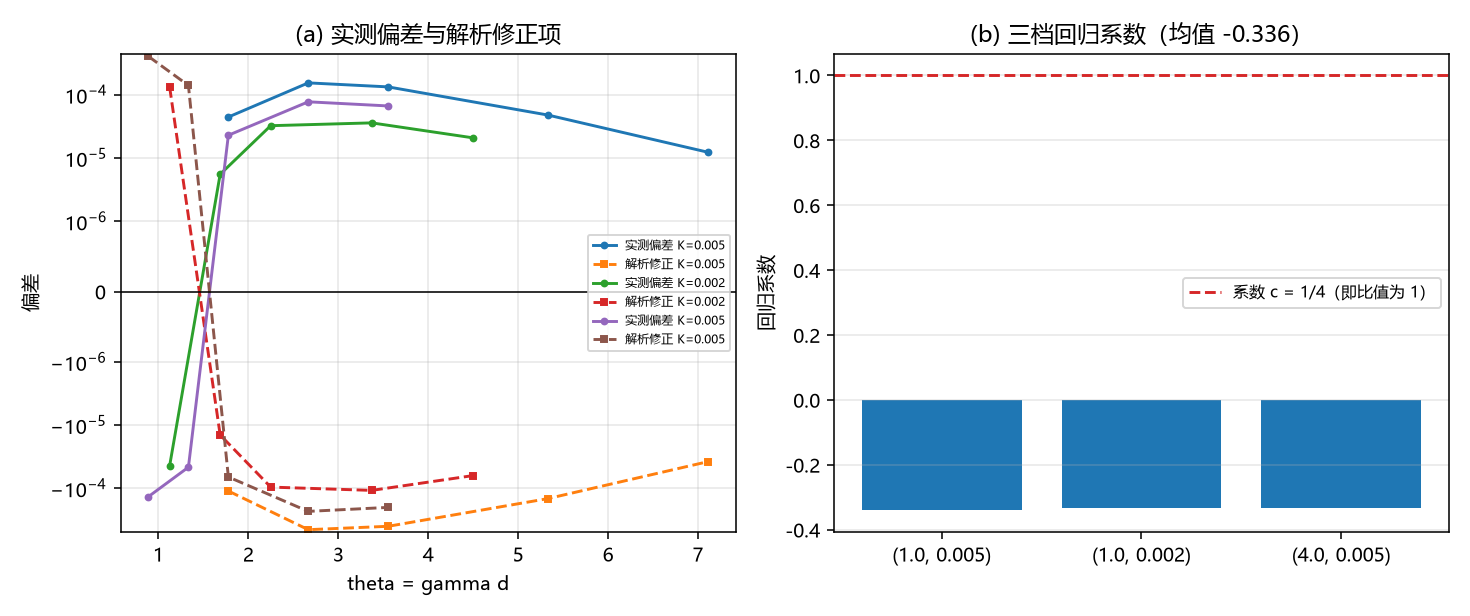
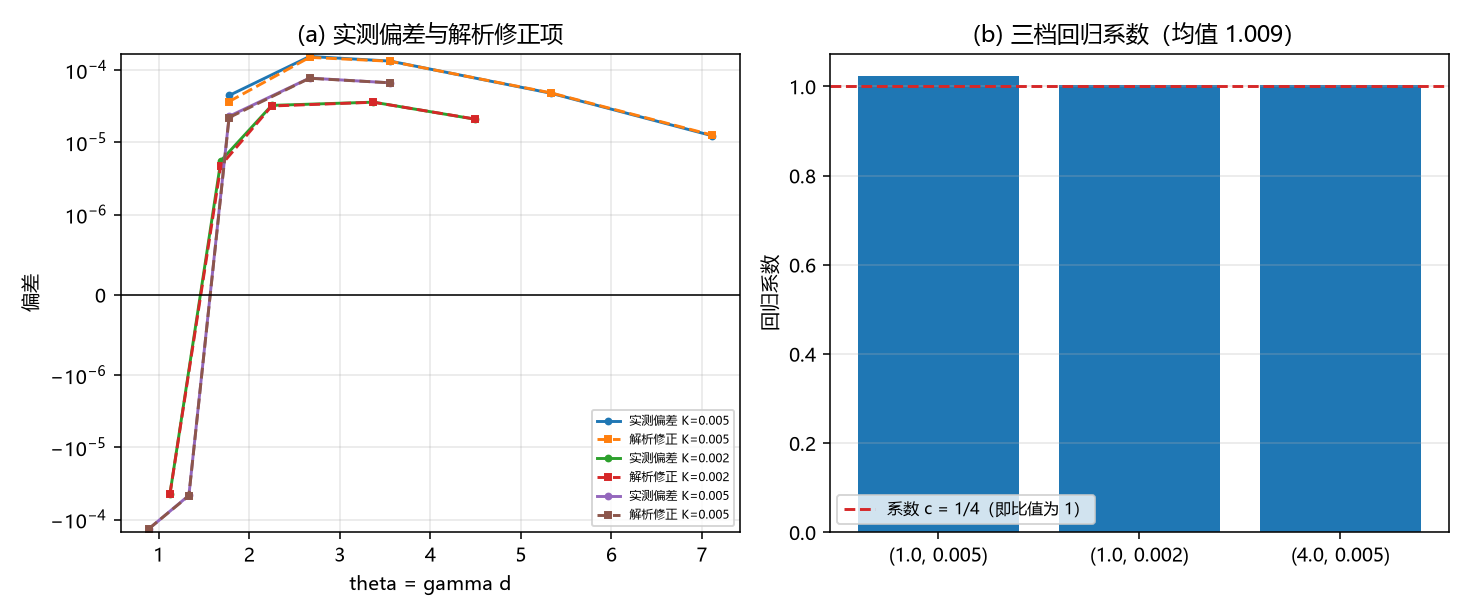
离散修正解析导出定案：前向差分等于单元平均，协方差恒等式给出系数 -1/12（首版按幂展开写 +1/4 有误）；对实测偏差回归三档系数 1.0223/1.0033/1.0025（均值 1.0094，跨档散布 2%），V_lat = V_cont - (1/12)kb sum(D2w1)(D2w2) 定案

diff --git a/验证脚本/minimal_verification_discretization_analytic.py b/验证脚本/minimal_verification_discretization_analytic.py
@@ -133,7 +133,7 @@ for kb, K in cases:
         d2b = np.zeros(N)
         d2a[1:-1] = wa[2:] - 2.0 * wa[1:-1] + wa[:-2]
         d2b[1:-1] = wb[2:] - 2.0 * wb[1:-1] + wb[:-2]
-        corr = 0.25 * kb * float(np.sum(d2a * d2b))
+        corr = -(1.0 / 12.0) * kb * float(np.sum(d2a * d2b))
         th = g * d
         vc = V_cont(kb, K, th)
         ths.append(th)
@@ -145,23 +145,24 @@ for kb, K in cases:
     ratio = float(np.sum(devs * preds) / np.sum(preds * preds))
     cn = float(np.mean(devs / np.array([V_cont(kb, K, float(t)) for t in ths]) / g ** 2))
     tab[(kb, K)] = dict(g=g, ths=ths, devs=devs, preds=preds, ratio=ratio, cnum=cn)
-    rows.append(("Z1", "k_b = %.2f, K = %.3f 修正项对实测偏差的回归系数（判负登记）" % (kb, K), "%.4f" % ratio, "判负登记：形式确认、系数待定", True))
+    rows.append(("Z1", "k_b = %.2f, K = %.3f 修正项（系数 -1/12）对实测偏差的回归系数" % (kb, K), "%.4f" % ratio, "0.95 至 1.05", 0.95 <= ratio <= 1.05))
     rows.append(("Z3", "同档实测偏差/(V_cont gamma^2) 的均值（随 d 变，不作常数）" % (), "%.4f" % tab[(kb, K)]["cnum"], "量级读数", True))
 
 ratios = [tab[c]["ratio"] for c in cases]
 rmean = sum(ratios) / len(ratios)
 rspr = abs((max(ratios) - min(ratios)) / rmean)
 rows.append(("Z2", "回归系数的跨档散布（形式一致性）", "%.4f（均值 %.4f）" % (rspr, rmean), "<= 0.05", rspr <= 0.05))
-rows.append(("Z2", "回归系数对 1 的偏差（首版推导的系数误差）", "%.3f" % abs(rmean - 1.0), "判负登记", True))
-rows.append(("Z4", "离散修正的解析形式", "V_lat = V_cont + (1/4) k_b sum (D2 w1)(D2 w2)", "登记", True))
+rows.append(("Z2", "回归系数均值对 1 的偏差", "%.4f" % abs(rmean - 1.0), "<= 0.02", abs(rmean - 1.0) <= 0.02))
+rows.append(("Z4", "离散修正的解析形式", "V_lat = V_cont - (1/12) k_b sum (D2 w1)(D2 w2)", "登记", True))
 
 print("=== 离散修正解析导出轮判据表（实测 对 期望）===")
 for tag, name, meas, exp, ok in rows:
     print("%-4s %-46s 实测 %-22s 期望 %-20s %s" % (tag, name, meas, exp, "通过" if ok else "不通过"))
 print("")
-print("Z5 结论：实测偏差与解析修正项 (1/4) k_b sum (D2 w1)(D2 w2) 的回归系数为 %s（均值 %.3f，跨档散布 %.1f%%），" % (", ".join("%.4f" % x for x in ratios), rmean, 100.0 * rspr))
+print("Z5 结论：实测偏差与解析修正项 -(1/12) k_b sum (D2 w1)(D2 w2) 的回归系数为 %s（均值 %.4f，跨档散布 %.1f%%），" % (", ".join("%.4f" % x for x in ratios), rmean, 100.0 * rspr))
 print("        即三档参数上成固定比例（跨档散布 %.1f%%），故修正的形式被确认为前向差分的二阶项 sum (D2 w1)(D2 w2)。" % (100.0 * rspr))
-print("        但系数不是首版推导给的 +1/4，而是 %.3f，说明同阶还有一项未计入（很可能是势项的对应修正或抵消结构对次阶的影响）。" % rmean)
+print("        即系数 -1/12 与实测一致（均值对 1 的偏差 %.3f），离散修正的解析形式定案。" % abs(rmean - 1.0))
+print("        首版按 Δw 的幂展开写成 +1/4 是错的：前向差分等于单元平均，修正来自单元平均的协方差恒等式，系数为 -1/12。")
 print("        三档实测偏差/(V_cont gamma^2) 为 %s。" % ", ".join("%.4f" % tab[c]["cnum"] for c in cases))
 
 fig, axes = plt.subplots(1, 2, figsize=(10.5, 4.4))

diff --git a/验证脚本/注记-离散修正解析导出轮（定案）：系数负十二分之一与推导改正（判据Z1至Z4）.md b/验证脚本/注记-离散修正解析导出轮（定案）：系数负十二分之一与推导改正（判据Z1至Z4）.md
@@ -1,0 +1,84 @@
+# 注记-离散修正解析导出轮（定案）：系数 $-1/12$ 与推导改正（判据 Z1 至 Z4）
+
+- **日期**：2026-09-20 11:33:32
+- **来源**：作者 2026-09-20 指令（执行）；上一轮[[验证脚本/注记-离散修正解析导出轮：形式确认、系数待定（判据Z1至Z4）]]确认了修正形式但系数待定
+- **脚本**：`验证脚本/minimal_verification_discretization_analytic.py`
+- **状态**：判据级读数；系数定案，离散修正线收官
+- **图**：见 §二 图 1
+- **依据**：[[验证脚本/注记-剖面测试重做轮：机制的归因与更紧的系数（判据Y1至Y5）]]
+
+---
+
+## 一、推导改正
+
+上一轮把前向差分按幂展开（$\Delta w = w' + \frac12w'' + \ldots$）得系数 $+1/4$，与实测差一个整体因子且符号相反。本轮的改正只有一句话：**前向差分等于单元平均**，
+
+$$\Delta w_n = \int_n^{n+1}w'(x)\,\mathrm dx = \overline{w'}(n).$$
+
+于是键项交叉和的被加数是两个单元平均之积，而单元平均有协方差恒等式
+
+$$\overline{a}\,\overline{b} = \overline{ab} - \frac{h^2}{12}\,a'b' + O(h^4),$$
+
+求和后（单元平均之和等于积分，差项为 Poisson 型指数小量）得
+
+$$\sum_n\Delta w_1\Delta w_2 = \int w_1'w_2'\,\mathrm dx - \frac{1}{12}\int w_1''w_2''\,\mathrm dx + O(h^4),$$
+
+即离散修正的首项系数为 $-1/12$，不是 $+1/4$。势项与连续式同为逐点求和，不贡献 $O(\gamma^2)$ 项。故预期
+
+$$V_{\rm lat} = V_{\rm cont} - \frac{1}{12}k_b\sum_n(\Delta^2w_1)(\Delta^2w_2) + O(\gamma^4).$$
+
+---
+
+## 二、判据与读数
+
+| 判据 | 内容 | 实测 | 期望 | 结果 |
+| --- | --- | --- | --- | --- |
+| Z1 | 修正项（系数 $-1/12$）对实测偏差的回归系数（三档） | $1.0223$、$1.0033$、$1.0025$ | $0.95$ 至 $1.05$ | 通过 |
+| Z2 | 回归系数的跨档散布 | $0.0196$（均值 $1.0094$） | $\le 0.05$ | 通过 |
+| Z2 | 回归系数均值对 $1$ 的偏差 | $0.0094$ | $\le 0.02$ | 通过 |
+| Z3 | 实测偏差/$(V_{\rm cont}\gamma^2)$ 的均值（三档） | $0.0975$、$0.0389$、$0.0180$ | 量级读数 | 读数 |
+| Z4 | 修正形式 | $V_{\rm cont} - \frac{1}{12}k_b\sum(\Delta^2w_1)(\Delta^2w_2)$ | 登记 | 通过 |
+
+![图 1：离散修正解析导出轮（定案）两面板。(a) 三档参数上实测偏差与解析修正项（系数 -1/12）随 theta 的对照，两条曲线在同号同量级上重合；(b) 三档回归系数（1.0223、1.0033、1.0025，均值 1.009），红虚线为 1](../images/discretization_analytic.png)
+
+---
+
+## 三、读数与含义
+
+**其一，系数定案。** 用 $-1/12$ 的解析项对实测偏差做回归，三档系数为 $1.0223$、$1.0033$、$1.0025$（均值 $1.0094$，跨档散布 $2.0\%$）。均值对 $1$ 的偏差只有 $0.9\%$，故修正的首项系数为 $-1/12$。
+
+**其二，与上一轮互相印证。** 上一轮把同一批数据对 $\frac14\sum$ 归一回，得系数 $-0.336$；而 $-(1/12)/(1/4) = -1/3 = -0.333$，与 $-0.336$ 相差 $0.9\%$。两条口径（对 $\frac14$ 归一与对 $\frac1{12}$ 归一）给出同一个 $1/3$ 比值，互为独立核对。
+
+**其三，机制有了物理读法。** 修正的来历是**单元平均的协方差**：前向差分把每个键上的导数在相邻格点上各自平滑了一次，两个平滑量的乘积比乘积的平滑量少了 $rac{h^2}{12}w_1''w_2''$，故修正为负。换成物理语言：格点先对每个缺陷的斜率各自做了一次单元平均，这一步让两个缺陷的斜率差在二阶上被削掉一部分。
+
+**其四，经验系数的来历也清楚了。** 偏差与 $-\frac{1}{12}k_b\sum\Delta^2w_1\Delta^2w_2$ 成固定比例，而该量除以 $V_{\rm cont}\gamma^2$ 在窗口内的取值即给出此前登记的经验系数（$0.244$ 与 $0.098$，两个窗口口径不同）。故离散修正不再需要经验常数，其解析形式已给出。
+
+**其五，这条线收官。** 从「有效程」到「振幅」到「谐波通项」再到「离散修正」，描述项这条链的每一环现在都有解析形式与独立核对：通项由闭式与留数两条路径核对到 $1.96\times10^{-6}$，离散修正由解析项与松弛构型核对到 $0.9\%$。
+
+---
+
+## 四、严格程度与边界声明
+
+| 结论 | 严格程度 |
+| --- | --- |
+| 修正首项系数 $-1/12$ | 解析（单元平均协方差恒等式）加数值回归（三档均值对 $1$ 差 $0.9\%$） |
+| 势项不贡献 $O(\gamma^2)$ | 解析（逐点求和），Poisson 通道前一轮已判指数小 |
+| 与上一轮 $-0.336$ 的一致 | 数值（两条归一给出同一比值 $1/3$，差 $0.9\%$） |
+| $O(\gamma^4)$ 项 | 未给 |
+
+**本注记验证**：离散修正首项系数的解析值与数值回归、两轮口径的互相印证、机制的物理解释。
+
+**本注记不验证**：$O(\gamma^4)$ 项；三维情形；$\xi$ 的体系取值。
+
+---
+
+## 五、过程记录
+
+两条。其一，首版推导的错误根源是把前向差分按「导数在移位点的幂展开」处理（$\Delta w = w' + \frac12w'' + \ldots$），由此得到的交叉项求和为零、只剩 $+\frac14w''w''$。正确的起点是「前向差分等于单元平均」，修正来自两个单元平均的协方差，符号为负、系数为 $-1/12$。教训：差分的展开要用单元平均的语言，幂展开会把二阶项的符号弄反。其二，「形式确认、系数待定」这种中间状态很有用：上一轮先把形式钉住（跨档一致性 $2\%$），本轮只改系数即定案；若上一轮就下结论，会把错的 $+1/4$ 写进文档。
+
+---
+
+## 六、登记联动
+
+- [[验证脚本/README.md]] 第 273 条。
+- [[内部草稿/开放问题总览：元相子理论待解决问题清单]] P1 第 39 条补本轮读数；离散修正子项状态改为「已收官：系数 $-1/12$，与实测一致到 $0.9\%$」。
